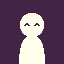
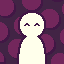
add more profile photos, generate random people on main page, and fix members flex shrink

diff --git a/zola/static/js/members.js b/zola/static/js/members.js
@@ -65,7 +65,7 @@ function getLevel(memberEntry) {
     return level;
 }
 
-function renderMember(memberEntry) {
+function renderMember(memberEntry, targetElement) {
     let level = getLevel(memberEntry);
 
     let fgGameColor = memberEntry["kind"] == "Executive" ? "#473b78" : "#641a34";
@@ -76,9 +76,9 @@ function renderMember(memberEntry) {
 
     let html = `<div class="person2">
         <div class="top">
-            <img src="/images/members/default${((cyrb53(memberEntry["alias"]) + cyrb53(memberEntry["joined"])) % 17) + 1}.png">
+            <img src="/images/members/default${((cyrb53(memberEntry["alias"]) + cyrb53(memberEntry["discord"])) % 24) + 1}.png">
             <div class="info">
-                <div class="banner" style="background-color: ${bgColor}">
+                <div class="banner" id="${memberEntry["alias"]}" style="background-color: ${bgColor}">
                     <span class="role">${memberEntry["kind"]}</span>
                     <span class="fav-game" style="color: ${fgGameColor}">(${memberEntry["fav-game"]})</span>
                 </div>
@@ -100,15 +100,51 @@ function renderMember(memberEntry) {
         </p>
     </div>`;
 
-    document.getElementById("member-list").innerHTML += html;
+    targetElement.innerHTML += html;
 }
 
-let response = await fetch("/data/members.json");
-let json = await response.json();
+function addMemberSmall(memberEntry, targetElement) {
+    let teaserBlurb = memberEntry["blurb"].split(" ").length > 15
+                    ? (memberEntry["blurb"].split(" ").slice(0, 15).join(" ") + "...")
+                    : memberEntry["blurb"];
+    let html = `
+        <li style="margin-bottom: 10px; word-wrap: break-word;">
+            <a style="color: #ffe478;" href="/members#${memberEntry["alias"]}">${memberEntry["alias"]}</a>
+            -- ${teaserBlurb}
+        </li>
+    `;
+    targetElement.innerHTML += html;
+}
 
-// sort by name
-json["members"].sort((a, b) => {
-    return a["alias"] < b["alias"] ? -1 : 1;
-}).forEach(memberEntry => {
-    renderMember(memberEntry)
-});
+export async function onMembersPage() {
+    let response = await fetch("/data/members.json");
+    let json = await response.json();
+    
+    // sort by name
+    json["members"].sort((a, b) => {
+        return a["alias"] < b["alias"] ? -1 : 1;
+    }).forEach(memberEntry => {
+        renderMember(memberEntry, document.getElementById("member-list"))
+    });
+
+    // this is actually important for the webpage to move to hash links
+    location.href = location.href;
+}
+
+export async function onMainPage() {
+    let response = await fetch("/data/members.json");
+    let json = await response.json();
+    
+    // sort by name
+    let numMembers = json["members"].length;
+    let addedMembers = [];
+    while (addedMembers.length < 3) {
+        let rand = Math.floor(Math.random() * numMembers);
+        if (addedMembers.includes(rand)) {
+            continue
+        } else {
+            addMemberSmall(json["members"][rand], document.getElementById("lovely-people"));
+            addedMembers.push(rand);
+        }
+    }
+}

diff --git a/zola/templates/index.html b/zola/templates/index.html
@@ -170,13 +170,11 @@
     </ul>
 
     <h3>Lovely People</h3>
-    <ul style="font-size: 1.2rem;">
-        <li style="margin-bottom: 10px;"><a style="color: #ffe478;" href="https://itch.io/profile/mothware">Alex</a> -- works on super cool <s>game maker</s> <s>monogame</s> FNA projects and <a href="https://www.youtube.com/@AQGamedev">makes videos</a> about them</li>
-        <li style="margin-bottom: 10px;"><a style="color: #ffe478;" href="https://itch.io/profile/0strategist0">Kye</a> -- our resident physicist and simulation expert. You never know what he's gonna make in godot.</li>
-        <li style="margin-bottom: 10px;"><a style="color: #ffe478;" href="https://itch.io/profile/ggsevan">Evan</a> -- you want to shoot things, right? rend the steel</li>
+    <ul id="lovely-people" style="font-size: 1.2rem;">
+        <!-- populated by js -->
     </ul>
     <p style="font-size: 1.2rem; background-color: #ffe478; border-radius: 12px; padding: 4px 8px; text-align: center; width: 200px; margin: auto;">
-        <a href="/members" style="color: #000; text-decoration: none;">more lovely people →</a>
+        <a href="/members" style="color: #000; text-decoration: none;">more lovely people 🡥</a>
     </p>
     <br>
 
@@ -205,4 +203,9 @@
 
 {% block scripts %}
     <script src="/js/mainPageGame.js"></script>
+    <script type="module" src="/js/members.js"></script>
+    <script type="module">
+        import { onMainPage } from "/js/members.js";
+        window.onload = onMainPage;
+    </script>
 {% endblock scripts %}

diff --git a/zola/static/style/members.css b/zola/static/style/members.css
@@ -1,8 +1,15 @@
+* {
+    /* sorry if this messes something up in the future... */
+    scroll-margin-top: 2rem;
+}
+
 #member-list {
     display: flex;
     flex-direction: row;
     flex-wrap: wrap;
-    gap: 2rem;
+    align-items: stretch;
+    justify-content: center;
+
     padding-left: 2rem;
 }
 
@@ -83,11 +90,19 @@
 /* ------------------------------ */
 
 .person2 {
+    flex: 1;
+
+    margin-right: 2rem;
+    margin-bottom: 2rem;
+
+    min-width: 28rem;
     width: calc(50% - 4rem);
     background-color: #212028;
     border-radius: 12px;
 
     padding: 1rem;
+
+    word-wrap: break-word;
 }
 
 .person2 .top {

diff --git a/zola/templates/members.html b/zola/templates/members.html
@@ -32,4 +32,8 @@
 
 {% block scripts %}
     <script type="module" src="/js/members.js"></script>
+    <script type="module">
+        import { onMembersPage } from "/js/members.js";
+        window.onload = onMembersPage;
+    </script>
 {% endblock scripts %}
